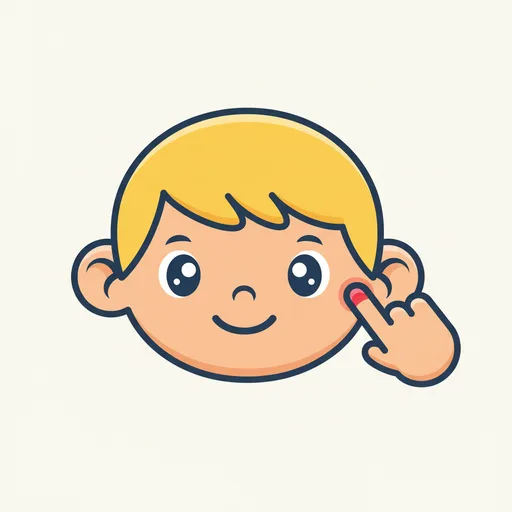
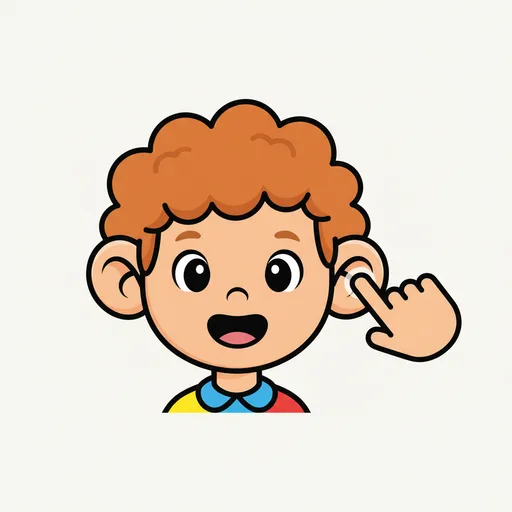
Fix: clearer Hair/Ears symbols — reposition the pointing hand
Ears: hand moved outside the head to the right, finger pointing in at the ear
(no longer reads as the eye). Hair: arm raised high with the finger up on the
hair.

Changed region(s): [[0.125, 0.1875, 0.9062, 0.8125]]

diff --git a/TINYVVOICE_PROJECT_CONTEXT.md b/TINYVVOICE_PROJECT_CONTEXT.md
@@ -5,16 +5,16 @@ A git pre-commit hook auto-refreshes the metadata block below; the human-maintai
 sections (Build Status, Next Steps) are updated by hand each push.
 
 <!-- AUTO:START -->
-> _Auto-updated on commit — last refreshed **2026-08-01 05:14 UTC** on branch `main`._
+> _Auto-updated on commit — last refreshed **2026-08-01 05:19 UTC** on branch `main`._
 
 **Recent commits:**
 
+- `3e1999f Feat: Word Board is 4 columns on every screen (gap-free)`
 - `0c6ac80 Assets: fill-out symbols + word/counting clips (3 voices)`
 - `92d56c0 Feat: Word Board vocab fill-out + Counting 11-20 pacing`
 - `dc85a3e Assets: re-rendered voice clips (3 voices) + new Word Board symbols`
 - `48e3737 Fix: natural learner pace in the Listening Game`
 - `0f58d1a Feat: Word Board AAC redesign (stable positions) + vocab reshape`
-- `9f1c37a Feat: SLP Phase-1 language corrections + content-lint guardrail`
 <!-- AUTO:END -->
 
 ---
